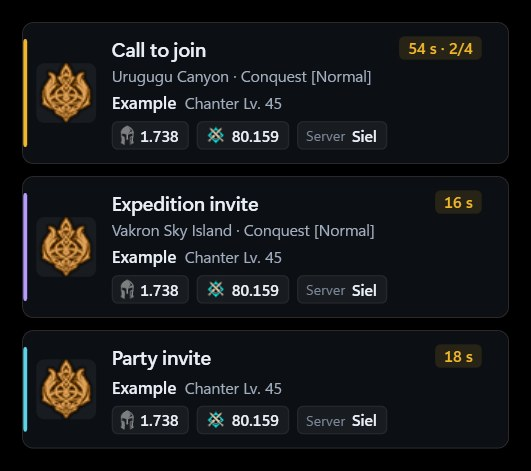
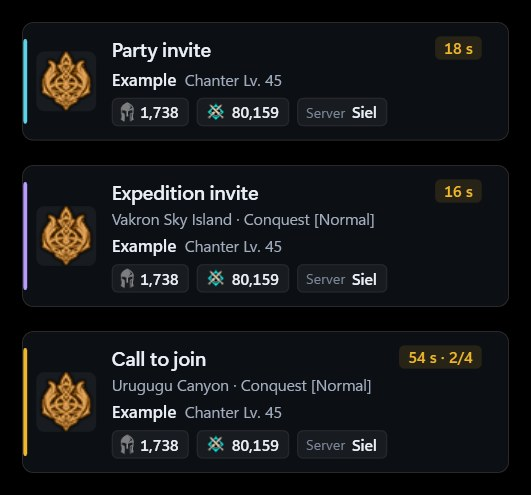
README: supporter details (1-year badge, early updates, exclusive features); alerts screenshot with English number format

diff --git a/README.es.md b/README.es.md
@@ -96,7 +96,7 @@ AionCore se actualiza solo: consulta este repositorio, comprueba la firma digita
 
 ## Gratis, con apoyo opcional
 
-AionCore es gratis y sin anuncios. Si quieres ayudar, el apoyo cuesta **US$ 15 por 12 meses** en Ko-fi: un solo pago, sin renovación automática. Quien apoya recibe las novedades primero. **Todo lo que ya salió gratis sigue gratis para siempre.**
+AionCore es gratis y sin anuncios. Si quieres ayudar, el apoyo cuesta **US$ 15 por 12 meses** en Ko-fi: un solo pago, sin renovación automática. A cambio recibes **1 año de la insignia de apoyo**, **las actualizaciones primero** y **algunas funciones exclusivas para quienes ayudan a mantener AionCore**. **Todo lo que ya salió gratis sigue gratis para siempre.**
 
 Lo que tiene hoy quien apoya: avisos fuera del juego, Panel de sala, temas de color del medidor, acabado Cristal sobre los visuales Denso, Panel y Franjas, y acceso anticipado a los avisos de mecánicas de jefe (hasta el 10/11/2026) y a los avisos de la barra de guardia del jefe (hasta el 11/11/2026).
 

diff --git a/README.pt-BR.md b/README.pt-BR.md
@@ -102,7 +102,7 @@ O AionCore se atualiza sozinho: consulta este repositório, confere a assinatura
 
 ## Grátis, com apoio opcional
 
-O AionCore é grátis, sem anúncios. Se quiser ajudar, o apoio custa **US$ 15 por 12 meses** no Ko-fi: um pagamento só, sem renovação automática. Quem apoia recebe as novidades primeiro. **Tudo o que já saiu grátis continua grátis para sempre.**
+O AionCore é grátis, sem anúncios. Se quiser ajudar, o apoio custa **US$ 15 por 12 meses** no Ko-fi: um pagamento só, sem renovação automática. Em troca você recebe **1 ano do selo de Apoiador**, **as atualizações primeiro** e **alguns recursos exclusivos para quem ajuda a manter o AionCore**. **Tudo o que já saiu grátis continua grátis para sempre.**
 
 O que o apoiador tem hoje: avisos fora do jogo, Painel da sala, temas de cor do medidor, acabamento Vidro sobre os visuais Denso, Painel e Faixas, e acesso antecipado aos avisos de mecânica de chefe (até 10/11/2026) e aos avisos da barra de guarda do chefe (até 11/11/2026).
 

diff --git a/README.md b/README.md
@@ -96,7 +96,7 @@ AionCore updates itself. It checks this repository, verifies the installer's dig
 
 ## Free, with optional support
 
-AionCore is free, with no ads. If you'd like to help, support costs **US$ 15 for 12 months** on Ko-fi: one payment, no auto-renewal. Supporters get new features first. **Everything already released for free stays free forever.**
+AionCore is free, with no ads. If you'd like to help, support costs **US$ 15 for 12 months** on Ko-fi: one payment, no auto-renewal. In return you get **1 year of the Supporter badge**, **updates first** and **some features exclusive to the people who help keep AionCore running**. **Everything already released for free stays free forever.**
 
 What supporters get today: out-of-game alerts, the Room panel, meter color themes, the Glass finish over the Dense, Panel and Stripes looks, and early access to on-screen boss mechanic alerts (until November 10, 2026) and boss guard bar notices (until November 11, 2026).
 
